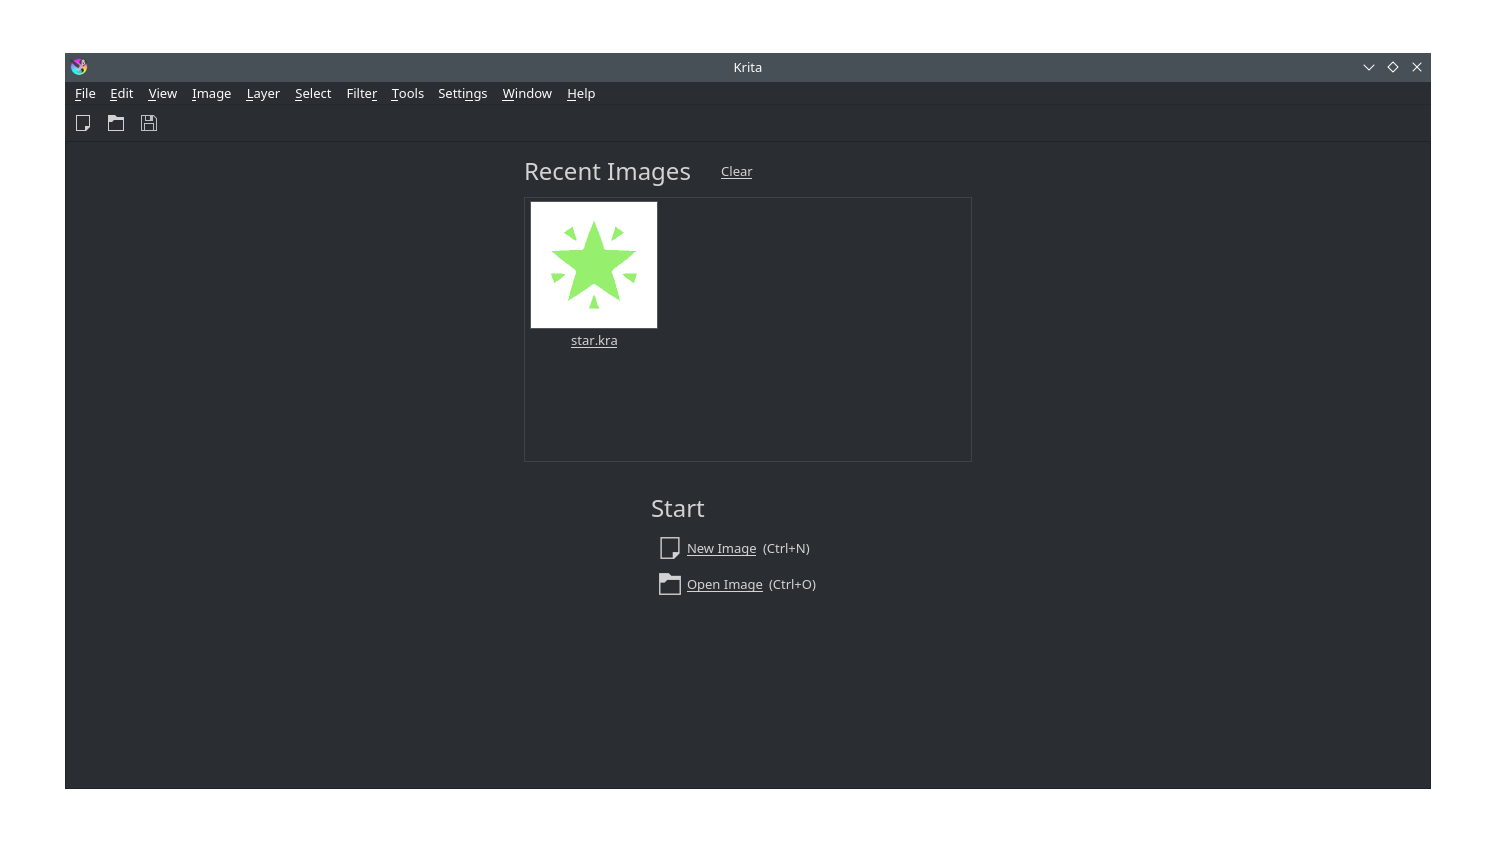
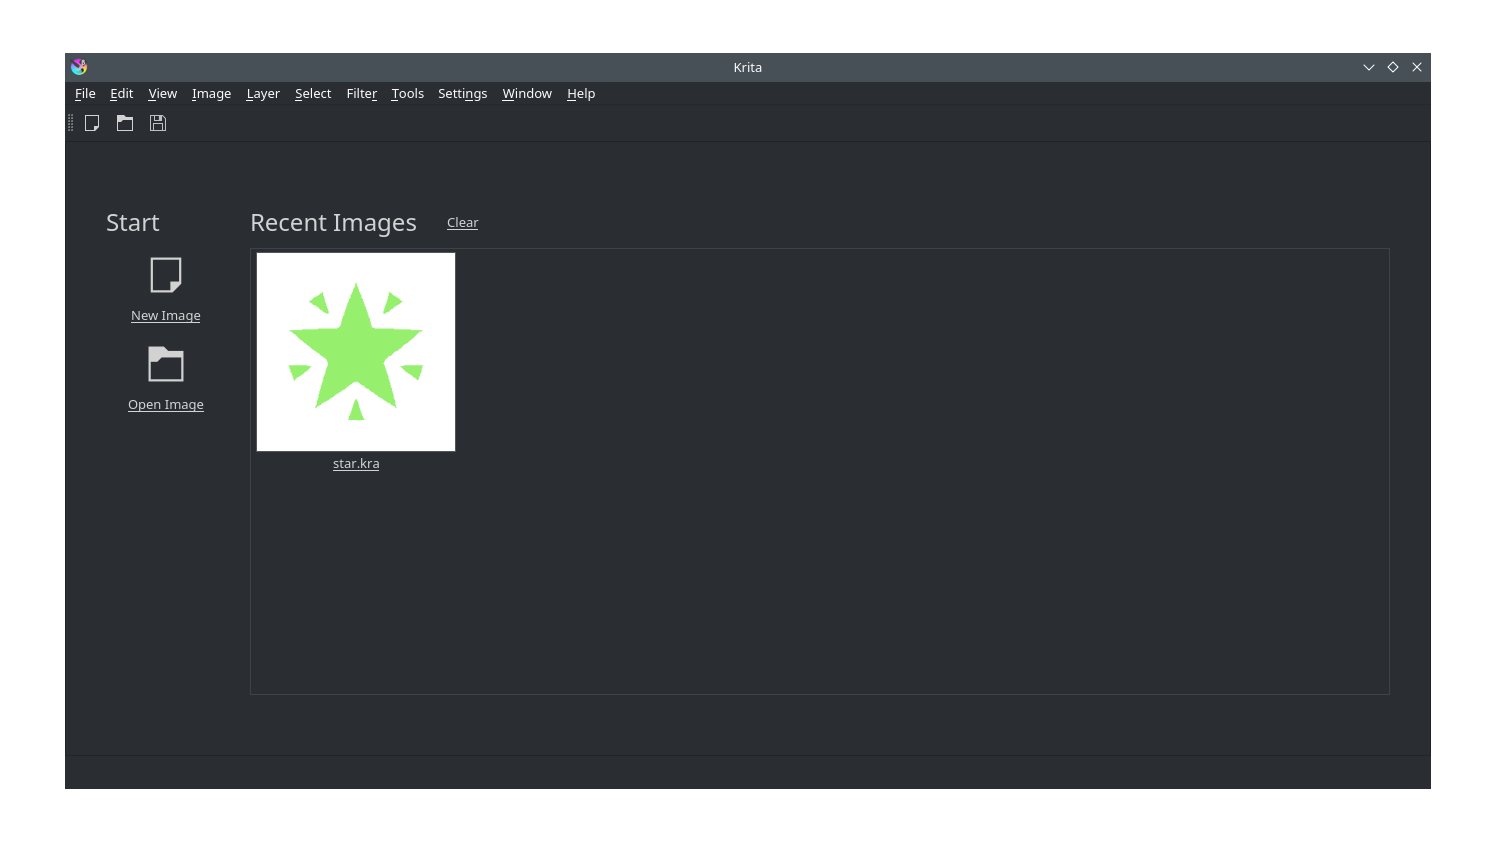
Update to Krita 5.2.0 beta2, reorganize block lists

diff --git a/kra_adblock/kra_adblock.py b/kra_adblock/kra_adblock.py
@@ -1,68 +1,52 @@
 from krita import *
 import re
 
-widgetBlockList = {
-    '5.1': [
-        # Tested with: Krita 5.1.5
-        (QLabel,            'gettingStartedLink' ),
-        (QLabel,            'helpTitleLabel'     ),
-        (QLabel,            'kritaWebsiteLink'   ),
-        (QLabel,            'labelSupportText'   ),
-        (QLabel,            'manualLink'         ),
-        (QLabel,            'poweredByKDELink'   ),
-        (QLabel,            'sourceCodeLink'     ),
-        (QLabel,            'supportKritaLink'   ),
-        (QLabel,            'userCommunityLink'  ),
-        (QPushButton,       'gettingStartedIcon' ),
-        (QPushButton,       'kdeIcon'            ),
-        (QPushButton,       'kritaWebsiteIcon'   ),
-        (QPushButton,       'sourceCodeIcon'     ),
-        (QPushButton,       'supportKritaIcon'   ),
-        (QPushButton,       'userCommunityIcon'  ),
-        (QPushButton,       'userManualIcon'     ),
-        (QWidget,           'widgetRight'        ),
-    ],
-    '5.2': [
-        # Tested with: Krita 5.2.0 beta1
-        # https://invent.kde.org/graphics/krita/-/merge_requests/1853
-        (QLabel,            'labelSupportText'   ),
-        (QLabel,            'lblBanner'          ),
-        (QWidget,           'widgetCenter'       ),
-        (QWidget,           'widgetRight'        ),
-    ],
-    '5.3': [
-        # Tested with: Krita 5.3.0 prealpha
-        (QLabel,            'gettingStartedLink' ),
-        (QLabel,            'helpTitleLabel'     ),
-        (QLabel,            'kritaWebsiteLink'   ),
-        (QLabel,            'labelSupportText'   ),
-        (QLabel,            'lblBanner'          ),
-        (QLabel,            'manualLink'         ),
-        (QLabel,            'newFileLinkShortcut'),
-        (QLabel,            'openFileShortcut'   ),
-        (QLabel,            'poweredByKDELink'   ),
-        (QLabel,            'sourceCodeLink'     ),
-        (QLabel,            'supportKritaLink'   ),
-        (QLabel,            'userCommunityLink'  ),
-        (QPushButton,       'gettingStartedIcon' ),
-        (QPushButton,       'kdeIcon'            ),
-        (QPushButton,       'kritaWebsiteIcon'   ),
-        (QPushButton,       'sourceCodeIcon'     ),
-        (QPushButton,       'supportKritaIcon'   ),
-        (QPushButton,       'userCommunityIcon'  ),
-        (QPushButton,       'userManualIcon'     ),
-        (QWidget,           'widgetRight'        ),
-    ],
-}
+supportedKritaVersions = [
+    '5.1', # Tested with: Krita 5.1.5
+    '5.2', # Tested with: Krita 5.2.0 beta2
+    '5.3', # Tested with: Krita 5.3.0 prealpha
+]
+
+blocklistDefinitions = [
+    (['5.1', '5.2', '5.3'], [
+        # Community links
+        (QLabel,      'gettingStartedLink' ),
+        (QLabel,      'helpTitleLabel'     ),
+        (QLabel,      'kritaWebsiteLink'   ),
+        (QLabel,      'manualLink'         ),
+        (QLabel,      'poweredByKDELink'   ),
+        (QLabel,      'sourceCodeLink'     ),
+        (QLabel,      'supportKritaLink'   ),
+        (QLabel,      'userCommunityLink'  ),
+        (QPushButton, 'gettingStartedIcon' ),
+        (QPushButton, 'kdeIcon'            ),
+        (QPushButton, 'kritaWebsiteIcon'   ),
+        (QPushButton, 'sourceCodeIcon'     ),
+        (QPushButton, 'supportKritaIcon'   ),
+        (QPushButton, 'userCommunityIcon'  ),
+        (QPushButton, 'userManualIcon'     ),
+        # News panel
+        (QWidget,     'widgetRight'        ),
+        # Bottom text advert
+        (QLabel,      'labelSupportText'   ),
+    ]),
+    (['5.2', '5.3'], [
+        # Top banner advert
+        (QLabel,      'lblBanner'          ),
+        # Off-placed shortcut labels
+        (QLabel,      'newFileLinkShortcut'),
+        (QLabel,      'openFileShortcut'   ),
+    ]),
+]
 
 class KraAdblock(Extension):
     def __init__(self, parent):
         super().__init__(parent)
 
     def setup(self):
-        self.blockListVersion = re.search(r'(\d+\.\d+)\..*', Krita.instance().version()).group(1)
+        self.blocklistVersion = re.search(r'(\d+\.\d+)\..*', Krita.instance().version()).group(1)
 
-        if not self.blockListVersion in widgetBlockList:
+        if not self.blocklistVersion in supportedKritaVersions:
             print("kra-adblock: Unsupported Krita version")
             return
 
@@ -77,6 +61,8 @@ class KraAdblock(Extension):
 
     def blockAdsAllWindows(self):
         for window in Krita.instance().windows():
-            for widgetType, widgetName in widgetBlockList[self.blockListVersion]:
-                if widget := window.qwindow().findChild(widgetType, widgetName):
-                    widget.setVisible(False)
+            for blocklistVersions, blocklist in blocklistDefinitions:
+                if self.blocklistVersion in blocklistVersions:
+                    for widgetType, widgetName in blocklist:
+                        if widget := window.qwindow().findChild(widgetType, widgetName):
+                            widget.setVisible(False)

diff --git a/README.md b/README.md
@@ -11,7 +11,7 @@ A plugin for removing advertisements from Krita's home page.
 ## Supported versions
 
 - Krita 5.1.x
-- Krita 5.2 beta1
+- Krita 5.2 beta2
 - Krita 5.3 prealpha
 
 ## License
